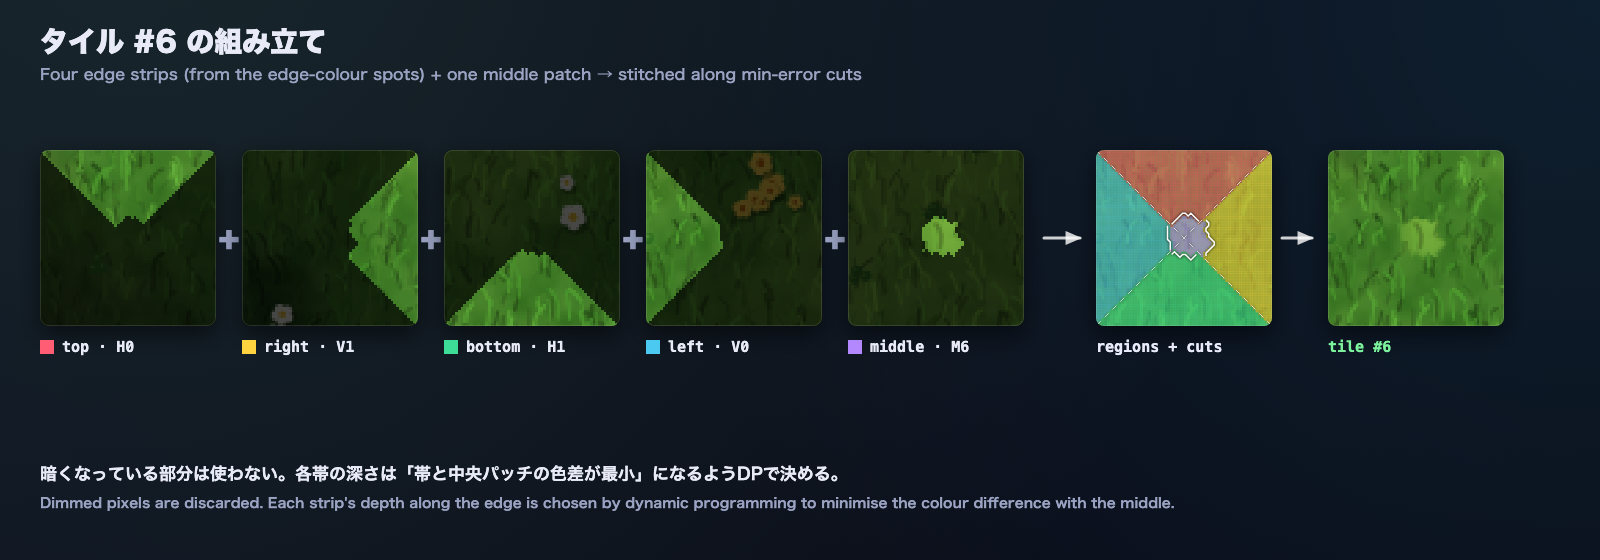
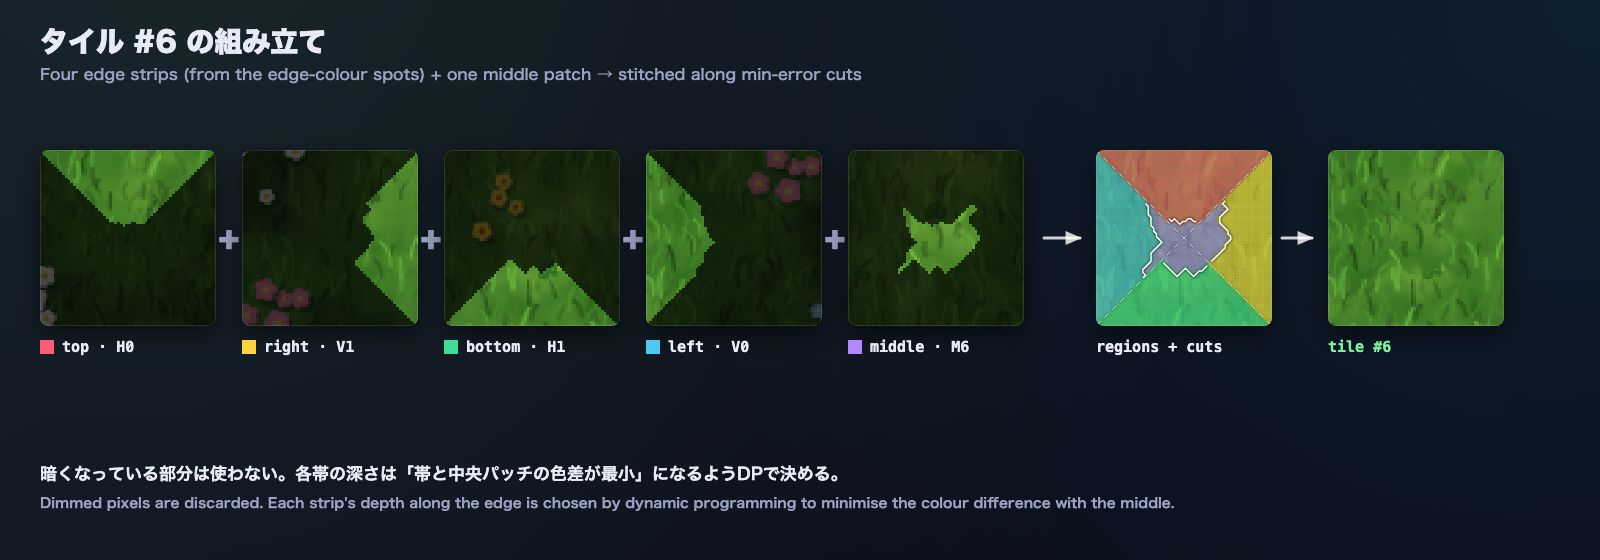
Tone-match tile middles, finer texture features, figure fixes, scroll GIF

diff --git a/src/texture.js b/src/texture.js
@@ -44,8 +44,8 @@ function meadow(ctx, S, seed) {
   const R = mulberry32(seed);
   const dark = hex('#24461a'), mid = hex('#3f7a26'), light = hex('#79b13c'), dry = hex('#a6a23f');
   const base = (x, y) => {
-    const n = fbm(x, y, S, 4, 5, seed);
-    const p = fbm(x, y, S, 3, 3, seed + 99);
+    const n = fbm(x, y, S, 8, 5, seed);
+    const p = fbm(x, y, S, 6, 3, seed + 99);
     let c = n < 0.5 ? mix(dark, mid, smoothstep(0.2, 0.5, n)) : mix(mid, light, smoothstep(0.5, 0.8, n));
     c = mix(c, dry, smoothstep(0.58, 0.78, p) * 0.45);
     const g = (fbm(x, y, S, 64, 2, seed + 5) - 0.5) * 30;
@@ -114,8 +114,8 @@ function forest(ctx, S, seed) {
   const R = mulberry32(seed);
   const soil = hex('#3a2616'), soilL = hex('#5e3e22'), moss = hex('#4f6f22'), mossL = hex('#86a13a');
   pixelLayer(ctx, S, (x, y) => {
-    const n = fbm(x, y, S, 4, 5, seed);
-    const m = fbm(x, y, S, 3, 4, seed + 31);
+    const n = fbm(x, y, S, 8, 5, seed);
+    const m = fbm(x, y, S, 8, 4, seed + 31);
     let c = mix(soil, soilL, n);
     const mm = smoothstep(0.52, 0.7, m);
     c = mix(c, mix(moss, mossL, fbm(x, y, S, 32, 2, seed + 3)), mm);
@@ -212,7 +212,7 @@ function snow(ctx, S, seed) {
   const R = mulberry32(seed);
   const shadow = hex('#a9bcd9'), mid = hex('#dce7f5'), white = hex('#f9fcff');
   pixelLayer(ctx, S, (x, y) => {
-    const n = fbm(x, y, S, 4, 5, seed);
+    const n = fbm(x, y, S, 8, 5, seed);
     const drift = Math.sin(((x * 2 + y * 4) / S) * Math.PI * 2 * 2 + fbm(x, y, S, 3, 3, seed + 2) * 8) * 0.5 + 0.5;
     let c = mix(shadow, mid, smoothstep(0.2, 0.55, n));
     c = mix(c, white, smoothstep(0.5, 0.85, n) * 0.9);
@@ -261,8 +261,8 @@ function lava(ctx, S, seed) {
   const rockD = hex('#151216'), rock = hex('#2e2830'), rockL = hex('#4a4048');
   const g0 = hex('#5c0a00'), g1 = hex('#e0400a'), g2 = hex('#ffb13b'), g3 = hex('#fff2b0');
   pixelLayer(ctx, S, (x, y) => {
-    const [f1, f2] = worley(x, y, S, 7, seed);
-    const [h1, h2] = worley(x, y, S, 18, seed + 3);
+    const [f1, f2] = worley(x, y, S, 14, seed);
+    const [h1, h2] = worley(x, y, S, 28, seed + 3);
     const crack = f2 - f1, crack2 = h2 - h1;
     const n = fbm(x, y, S, 4, 5, seed + 1);
     const nx = fbm(x + 1, y, S, 8, 3, seed + 2) - fbm(x - 1, y, S, 8, 3, seed + 2);
@@ -270,7 +270,7 @@ function lava(ctx, S, seed) {
     c = mix(c, rockL, clamp01(nx * 8 + 0.2) * 0.5);
     c = mix(c, rockD, smoothstep(0.25, 0.0, f1) * 0.4);
     const heat = fbm(x, y, S, 3, 3, seed + 8);
-    const glow = Math.exp(-crack * (26 - heat * 10)) + Math.exp(-crack2 * 40) * 0.35 * heat;
+    const glow = Math.exp(-crack * (20 - heat * 8)) + Math.exp(-crack2 * 40) * 0.35 * heat;
     const t = clamp01(glow * (0.6 + heat * 0.8));
     let lc = t < 0.33 ? mix(g0, g1, t / 0.33) : t < 0.7 ? mix(g1, g2, (t - 0.33) / 0.37) : mix(g2, g3, (t - 0.7) / 0.3);
     c = mix(c, lc, smoothstep(0.05, 0.4, t));

diff --git a/src/figures.js b/src/figures.js
@@ -192,18 +192,17 @@ F.bitmask = () => {
   lab(`right = ${e.right}`, x + s + 20, y + s / 2 - 30, 'left', e.right);
   text('(×2)', x + s + 70, y + s / 2 + 26, { size: 15, font: MONO, color: '#9aa3c2', align: 'center' });
 
-  const rx = 700;
-  text('index = top + 2·right + 4·bottom + 8·left', rx, 190, { size: 26, weight: 700, font: MONO });
-  text(`      = ${e.top} + 2·${e.right} + 4·${e.bottom} + 8·${e.left}  =  ${i}`, rx, 232, { size: 26, weight: 700, font: MONO, color: '#7cf29c' });
+  const rx = 640;
+  text('index = top + 2·right + 4·bottom + 8·left', rx, 190, { size: 21, weight: 700, font: MONO });
+  text(`      = ${e.top} + 2·${e.right} + 4·${e.bottom} + 8·${e.left}  =  ${i}  =  0b${e.left}${e.bottom}${e.right}${e.top}`, rx, 232, { size: 21, weight: 700, font: MONO, color: '#7cf29c' });
   const bits = [['bit 3', 'left', e.left], ['bit 2', 'bottom', e.bottom], ['bit 1', 'right', e.right], ['bit 0', 'top', e.top]];
   bits.forEach(([b, n, v], k) => {
-    const bx = rx + k * 120, by = 280;
-    ctx.fillStyle = v ? 'rgba(46,196,255,0.18)' : 'rgba(255,159,28,0.16)'; roundRect(ctx, bx, by, 108, 110, 12); ctx.fill();
-    ctx.strokeStyle = v ? EDGE_COLORS[1] : EDGE_COLORS[0]; ctx.lineWidth = 2; roundRect(ctx, bx, by, 108, 110, 12); ctx.stroke();
-    text(String(v), bx + 54, by + 62, { size: 44, weight: 800, font: MONO, align: 'center' });
-    text(`${b} · ${n}`, bx + 54, by + 94, { size: 13, font: MONO, align: 'center', color: '#c9d1ee' });
+    const bx = rx + k * 128, by = 280;
+    ctx.fillStyle = v ? 'rgba(46,196,255,0.18)' : 'rgba(255,159,28,0.16)'; roundRect(ctx, bx, by, 118, 110, 12); ctx.fill();
+    ctx.strokeStyle = v ? EDGE_COLORS[1] : EDGE_COLORS[0]; ctx.lineWidth = 2; roundRect(ctx, bx, by, 118, 110, 12); ctx.stroke();
+    text(String(v), bx + 59, by + 62, { size: 44, weight: 800, font: MONO, align: 'center' });
+    text(`${b} · ${n}`, bx + 59, by + 94, { size: 12, font: MONO, align: 'center', color: '#c9d1ee' });
   });
-  text(`0b${e.left}${e.bottom}${e.right}${e.top} = ${i}`, rx + 500, 345, { size: 24, weight: 800, font: MONO, color: '#7cf29c' });
   text(`atlas: col = ${i} % 4 = ${i % 4},  row = ⌊${i} / 4⌋ = ${Math.floor(i / 4)}`, rx, 440, { size: 20, font: MONO, color: '#c9d1ee' });
   text('2⁴ = 16 通りすべてにちょうど1枚 → 探索・バックトラック不要', rx, 488, { size: 19, weight: 700 });
   text('exactly one tile for every combination: no search, no fallback', rx, 516, { size: 15, color: '#9aa3c2' });

diff --git a/src/wang.js b/src/wang.js
@@ -119,7 +119,24 @@ export function buildTile(tex, spots, edges, midSpot, T, opts = {}) {
     else if (k === LEFT) { const s = V[edges.left]; sample(s.x + x, s.y + y, out, o); }
     else { const s = V[edges.right]; sample(s.x + x - T, s.y + y, out, o); }
   };
-  const midPix = (x, y, out, o) => sample(midSpot.x + x, midSpot.y + y, out, o);
+  // Tone-match the middle patch to the edge strips around it, so low-frequency
+  // brightness differences don't show up as a diamond lattice.
+  const off = [0, 0, 0];
+  if (opts.toneMatch ?? true) {
+    const a0 = new Uint8ClampedArray(3), eSum = [0, 0, 0], mSum = [0, 0, 0];
+    let ne = 0, nm = 0;
+    for (let y = 0; y < T; y += 2) for (let x = 0; x < T; x += 2) {
+      const d = [y, T - 1 - x, T - 1 - y, x];
+      let k = 0; for (let j = 1; j < 4; j++) if (d[j] < d[k]) k = j;
+      if (d[k] < T * 0.3) { edgePix(k, x, y, a0, 0); eSum[0] += a0[0]; eSum[1] += a0[1]; eSum[2] += a0[2]; ne++; }
+      if (d[k] > T * 0.12) { sample(midSpot.x + x, midSpot.y + y, a0, 0); mSum[0] += a0[0]; mSum[1] += a0[1]; mSum[2] += a0[2]; nm++; }
+    }
+    for (let c = 0; c < 3; c++) off[c] = (eSum[c] / ne - mSum[c] / nm) * 0.85;
+  }
+  const midPix = (x, y, out, o) => {
+    sample(midSpot.x + x, midSpot.y + y, out, o);
+    out[o] += off[0]; out[o + 1] += off[1]; out[o + 2] += off[2];
+  };
   // (u along edge, v depth) -> tile (x,y)
   const toXY = (k, u, v) => (k === TOP ? [u, v] : k === BOTTOM ? [u, T - 1 - v] : k === LEFT ? [v, u] : [T - 1 - v, u]);
 

diff --git a/src/figure-list.js b/src/figure-list.js
@@ -11,7 +11,7 @@ export const FIGURES = {
   continuity: [1300, 640],
   mincut: [1300, 560],
   smart: [1300, 700],
-  themes: [1600, 760],
+  themes: [1600, 680],
   loop: [1300, 700],
   infinite: [1300, 700],
 };

diff --git a/scripts/make-gif.py b/scripts/make-gif.py
@@ -1,0 +1,23 @@
+# Build the README scroll GIF from figures.html?fig=pan frames.
+# Usage (dev server running): python3 scripts/make-gif.py
+import os, subprocess, sys, tempfile
+from PIL import Image
+
+CHROME = os.environ.get('CHROME', '/Applications/Google Chrome.app/Contents/MacOS/Google Chrome')
+BASE = os.environ.get('BASE', 'http://localhost:8791')
+root = os.path.dirname(os.path.dirname(os.path.abspath(__file__)))
+W, H, PER = 480, 220, 12
+themes = ['meadow', 'forest', 'desert', 'snow', 'lava']
+frames = []
+with tempfile.TemporaryDirectory() as tmp:
+    for ti, theme in enumerate(themes):
+        for f in range(PER):
+            g = ti * PER + f
+            out = os.path.join(tmp, f'{g:03d}.png')
+            subprocess.run([CHROME, '--headless=new', '--disable-gpu', '--hide-scrollbars', '--force-device-scale-factor=1',
+                            f'--window-size={W},{H}', '--virtual-time-budget=20000', f'--screenshot={out}',
+                            f'{BASE}/figures.html?fig=pan&theme={theme}&f={g * 2}&w={W}&h={H}'], check=True, capture_output=True)
+            frames.append(Image.open(out).convert('RGB').quantize(colors=96, method=Image.Quantize.MEDIANCUT))
+            sys.stdout.write('.'); sys.stdout.flush()
+frames[0].save(os.path.join(root, 'assets/readme/scroll.gif'), save_all=True, append_images=frames[1:], duration=70, loop=0, optimize=True)
+print('\nscroll.gif', os.path.getsize(os.path.join(root, 'assets/readme/scroll.gif')) // 1024, 'KB')

diff --git a/README.md b/README.md
@@ -4,6 +4,8 @@
 
 ![hero](assets/readme/hero.png)
 
+<p align="center"><img src="assets/readme/scroll.gif" width="640" alt="scroll"><br><sub>無限マップをスクロール（5テーマ）。どこにもグリッドや継ぎ目は見えません。</sub></p>
+
 **▶ ブラウザで遊ぶ: https://kumi0708.github.io/wang-tiles-lab/**
 
 16枚の **2色エッジ Wang タイル** を、ブラウザ内で手続き生成したシームレステクスチャから切り出し、グリッド感のない地面を敷き詰めるデモです。

diff --git a/README.en.md b/README.en.md
@@ -4,6 +4,8 @@
 
 ![hero](assets/readme/hero.png)
 
+<p align="center"><img src="assets/readme/scroll.gif" width="640" alt="scroll"><br><sub>Scrolling the infinite hashed map across all 5 themes: no grid, no seams.</sub></p>
+
 **▶ Play in the browser: https://kumi0708.github.io/wang-tiles-lab/**
 
 This demo cuts 16 **2-colour edge Wang tiles** from a seamless texture that the browser generates procedurally. It then tiles the ground with them, and no grid shows.
